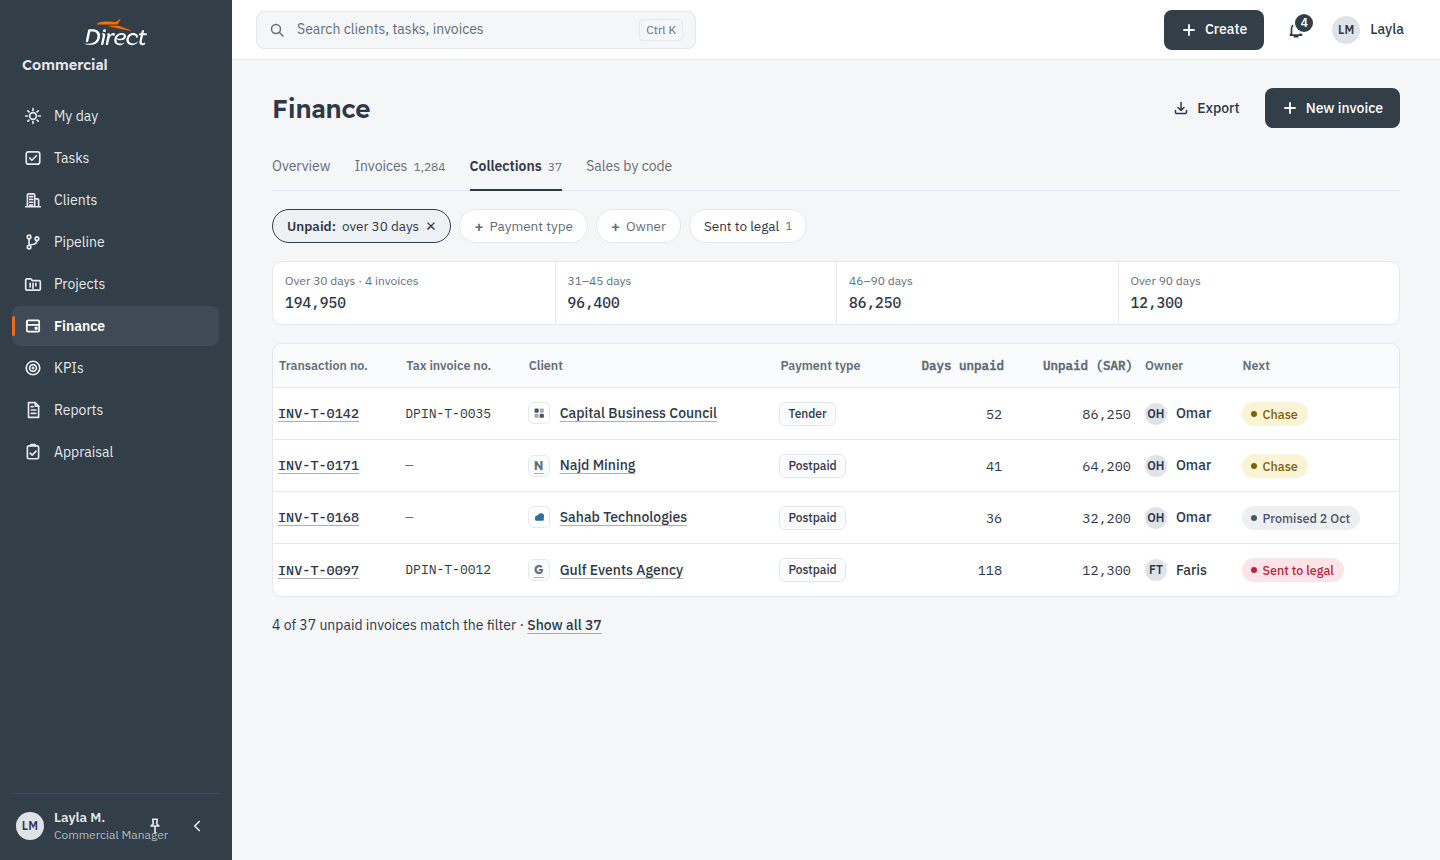
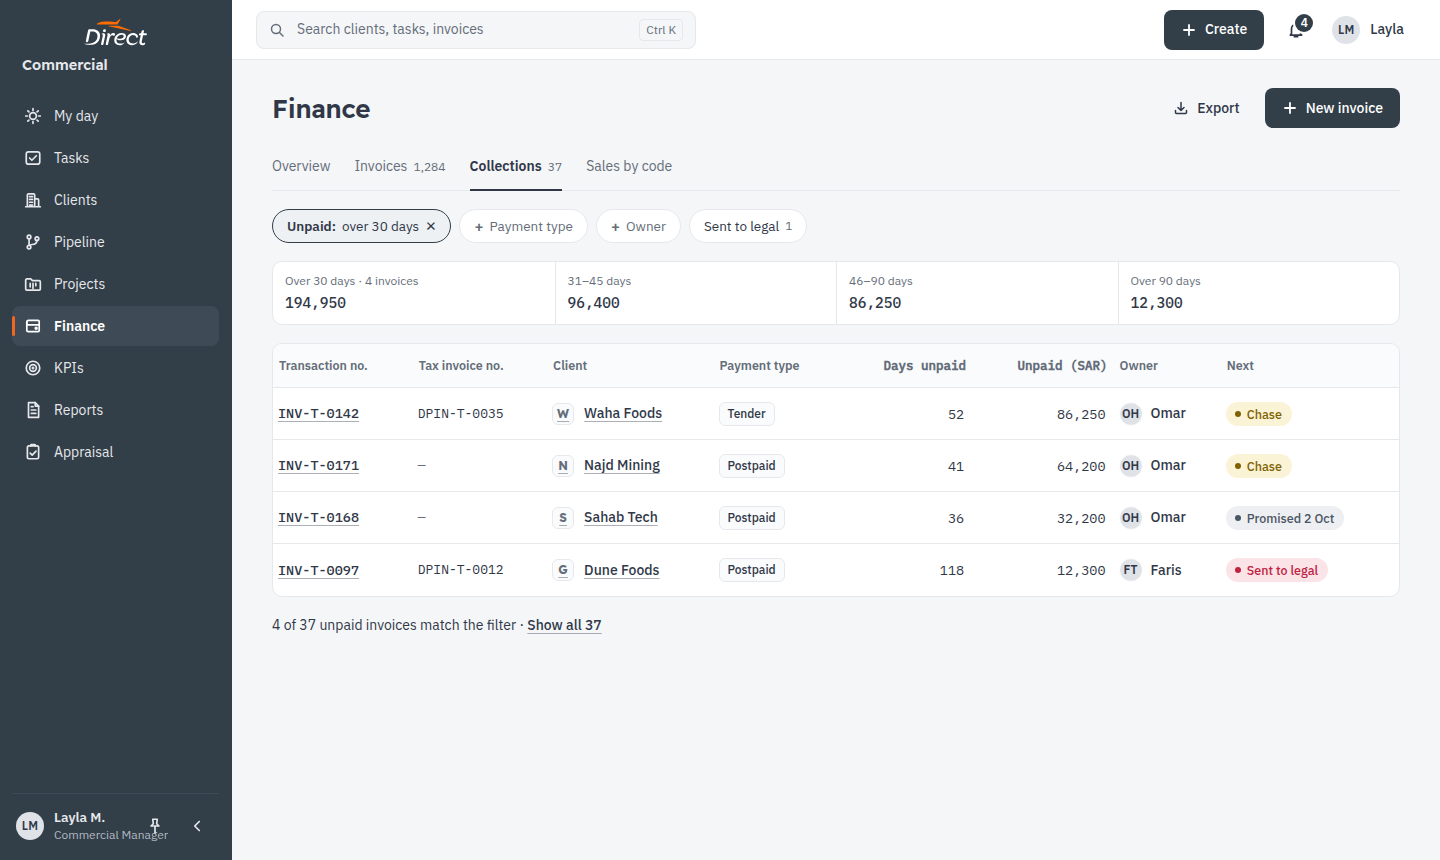
Finance brief and boards: QA-534 Close month only on a month that has ended, QA-535 demo names only, no sentence on the Tender card, no revenue on the monthly invoice row
Docs only. Organisation names are now Sahab Tech, Waha Foods, Sadu Tech, Stay Hotels, Tala Hotels, Dune Foods and Najd Mining (the scenario names); the boards are redrawn.

Claude-Session: https://claude.ai/code/session_01WPS8Rw97iDr6Hh5jw5gHY1

diff --git a/docs/v2/briefs/finance-screens.md b/docs/v2/briefs/finance-screens.md
@@ -23,7 +23,7 @@ Each item says where it shows, the exact words, and a made-up example. A word in
      paid. A unit not yet fully paid carries the chip **Pending** on every list — the same word on every board — and is in no
      figure.
    - A closed month shows the chip **Closed 5 Oct** (always with its day), and its figures never change. The finance lead
-     (Full on Finance) closes it with **Close month** on the open month's row. The confirm names the month and says "It will
+     (Full on Finance) closes it with **Close month** on a month that has ended and is not yet closed; the running month shows no such button (a close is refused while the month is still running, I.3). The confirm names the month and says "It will
      never change. Later news becomes a dated note." This is the one action here with no Undo, because V620 says a closed
      month is never reopened.
    - **The close rule (V620).** A month is closed by the 5th working day of the next month at the latest; closing earlier is allowed. September is closed on 5 Oct, which sits inside that limit. The chip always shows the day it was closed.
@@ -34,7 +34,7 @@ Each item says where it shows, the exact words, and a made-up example. A word in
    - The months table is newest first, so this month is the first row (the 30-second rule).
    ```
    Month                          Revenue    Cost     Profit   Provisional
-   Oct 2026  Open  [Close month]    410,000  350,000   60,000  of which 31,000
+   Oct 2026  Open                   410,000  350,000   60,000  of which 31,000
    Sep 2026  Closed 5 Oct         1,020,000  860,000  160,000  of which 24,000
      Late changes · 3  ▸ Paid late +9,400 · Cancelled late −3,100 · Late cost −600
    ```
@@ -94,7 +94,7 @@ Each item says where it shows, the exact words, and a made-up example. A word in
    VAT or CR number, then discount code, then contact e-mail; an unknown client ID stops there; an e-mail domain or a name is
    only a suggestion, never a match.
    ```
-   INV-B-0203  Monthly invoice   Org Alpha   4 transactions 73,450 · total 76,950
+   INV-B-0203  Monthly invoice   Org Alpha   (no revenue of its own)
                Monthly fee 3,500 SAR · counted as revenue in Sep 2026
    ```
 8. **The line "Commissions paid outside Payments are not included."** (V612), exactly this sentence, in small muted type
@@ -139,7 +139,7 @@ What each screen shows, in short:
   - **Needs attention**: a strip of count chips under the tiles: **Checks failing**, **No client**, **Late changes**. Each
     links to its records. Provisional units are never "held back": they count (V611), and their amount is shown beside Profit.
   - The months table is **newest month first**, so this month is the first row (the 30-second rule). A closed month's chip
-    reads **Closed 5 Oct** (with its day); the open month's row carries **Close month** for a person with Full on Finance.
+    reads **Closed 5 Oct** (with its day); a month that has ended and is not yet closed carries **Close month** for a person with Full on Finance; the running month does not.
   - **Tenders signed · 2026** line (A6, after #165) and the commissions sentence (A8).
   - **Payments · as of** stamp (V500): one stamp per screen, top right of the figures, covering every copied figure on it.
 - **Invoices.**
@@ -189,7 +189,7 @@ The phone boards are in this PR: `PhoneFinance` (overview), `PhoneInvoices` (car
 - **Overview.** The tiles stack, one under another, each with "of which Provisional" directly under its figure. The **Needs
   attention** strip becomes a row of count chips. The charts become two short lists. The months table becomes cards: month ·
   revenue · profit · of which Provisional · a **Closed 5 Oct** or **Open** chip, this month first; **Late changes** opens
-  inside the month's card, and the open month's card carries **Close month**. The **Payments · as of** stamp stays top right
+  inside the month's card, and a month that has ended and is not yet closed carries **Close month** (never the running month). The **Payments · as of** stamp stays top right
   of the figures.
 - **Invoices and Collections** become cards that **keep** the client name, the two numbers (Transaction no. on the first line,
   Tax invoice no. on the second), the kind chip, the channel chip (if tagged) and Final, Provisional or Pending, with the
@@ -234,7 +234,7 @@ Month and profit
 1. September is closed on 5 Oct (V620: closed by the 5th working day, never later). A unit created 30 Sep and paid before the close
    simply counts in Sep. A unit created 30 Sep and paid on 7 Oct still counts in Sep, and under Sep's **Late changes · 1** the
    line **Paid late** shows with its paid date and riyals; Sep's own row figures do not change.
-2. Click **Close month** on the open month's row: the confirm names the month and says it never changes; afterwards the chip
+2. On a month that has ended and is not yet closed (September, from 1 Oct), click **Close month**: the confirm names the month and says it never changes; afterwards the chip
    reads **Closed 5 Oct** (with the day) and there is no Undo.
 3. Profit counts every paid unit and **of which Provisional** sits in the same row, never hidden. Approving the last expense on
    a unit turns its chip Final and moves the figure.
